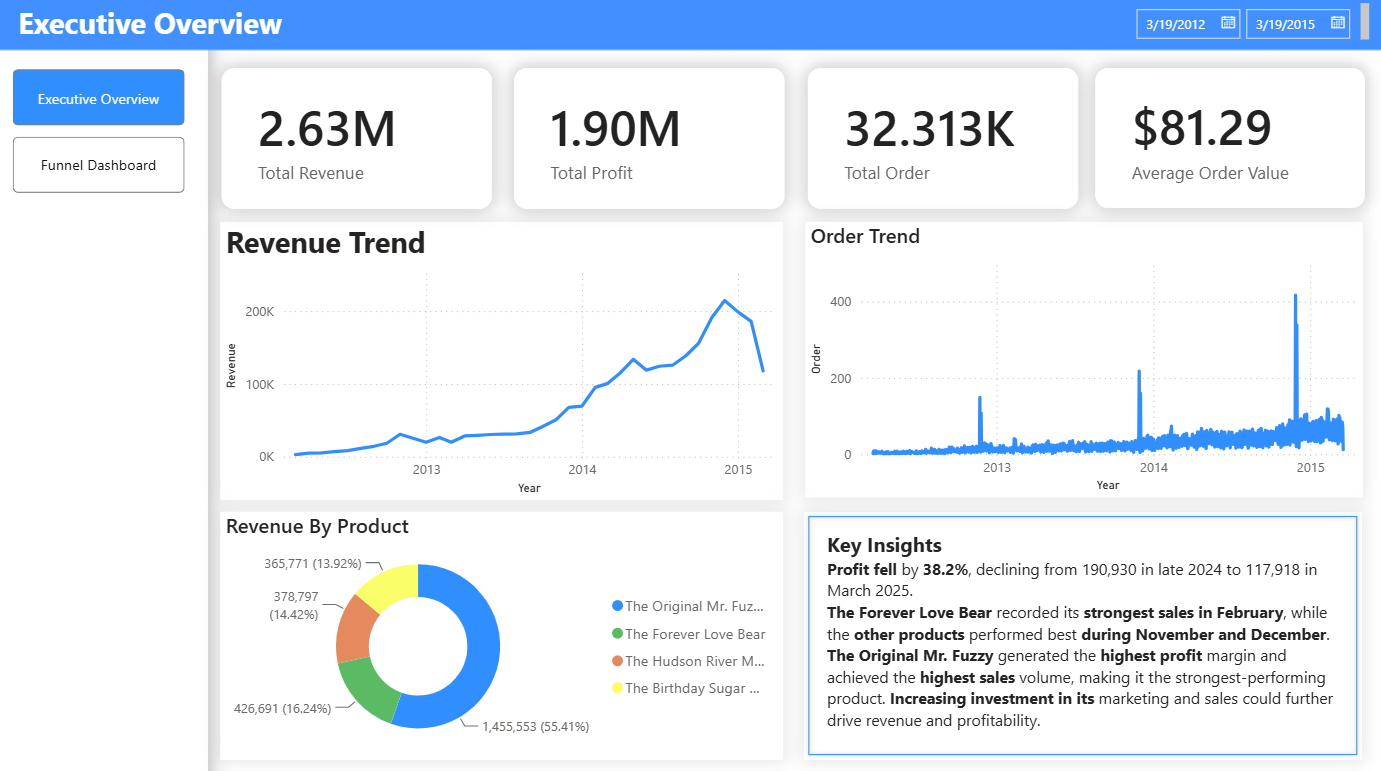
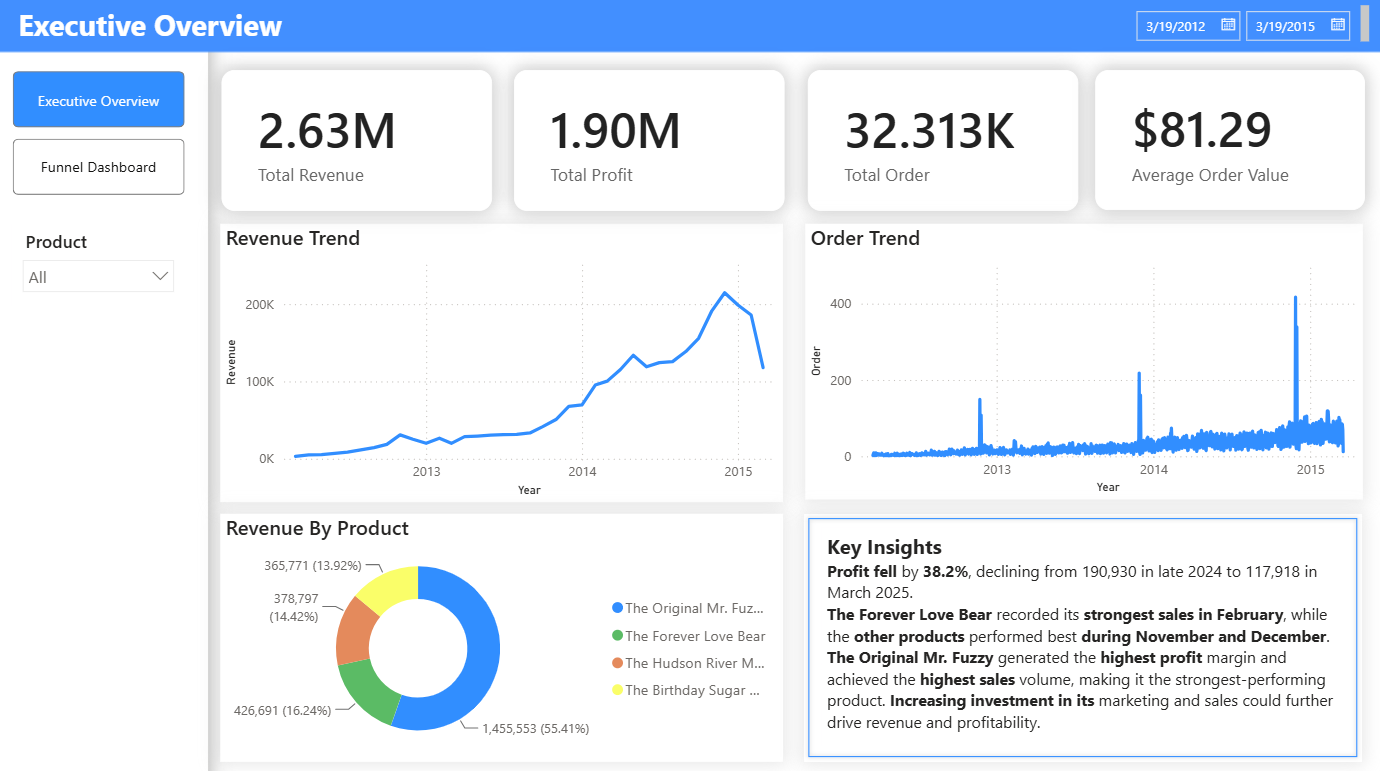
updated

diff --git a/index.html b/index.html
@@ -58,7 +58,7 @@
         <h2>About Me</h2>
         <div class="about-content">
             <!--💡UPDATE: Change the image to your own profile photo in assets/images/-->
-            <img src="assets/images/profile-placeholder.jpg" alt="Your Name" class="profile-photo">
+            <img src="assets/images/avt.jpg" alt="Le Huyen My" class="profile-photo">
             <div class="about-text">
                 <!--💡UPDATE: Write your own 'About Me' text here-->
                 <p>I'm an aspiring Data Analyst currently seeking internship opportunities. I'm passionate about turning data into meaningful insights, with a particular interest in business and financial analytics.</p>
@@ -99,9 +99,10 @@
                     <p>This project analyzes sales data from a stuffed toy company on an e-commerce platform using PostgreSQL and Power BI to uncover sales trends and business insights.</p>
                     <div class="project-buttons">
                         <!--💡UPDATE: Add link to your project's code/documentation on GitHub-->
-                        <a href="[YOUR_GITHUB_PROJECT_URL]" target="_blank" class="btn">Documentation</a>
+                        <a href="https://github.com/Minii62/E-commerce-Sales-Analysis" target="_blank" class="btn">Documentation</a>
                         <!--💡UPDATE: Add link to your live dashboard (e.g., Power BI, Tableau Public)-->
-                        <a href="[YOUR_LIVE_DASHBOARD_URL]" target="_blank" class="btn btn-secondary">View Dashboard</a>
+                        <a href="https://github.com/Minii62/E-commerce-Sales-Analysis#dashboard-preview" target="_blank" class="btn btn-secondary">Dashboard Preview</a>
+                        <!-- <a href="[YOUR_LIVE_DASHBOARD_URL]" target="_blank" class="btn btn-secondary">View Dashboard</a> -->
                     </div>
                 </div>
             </div>
